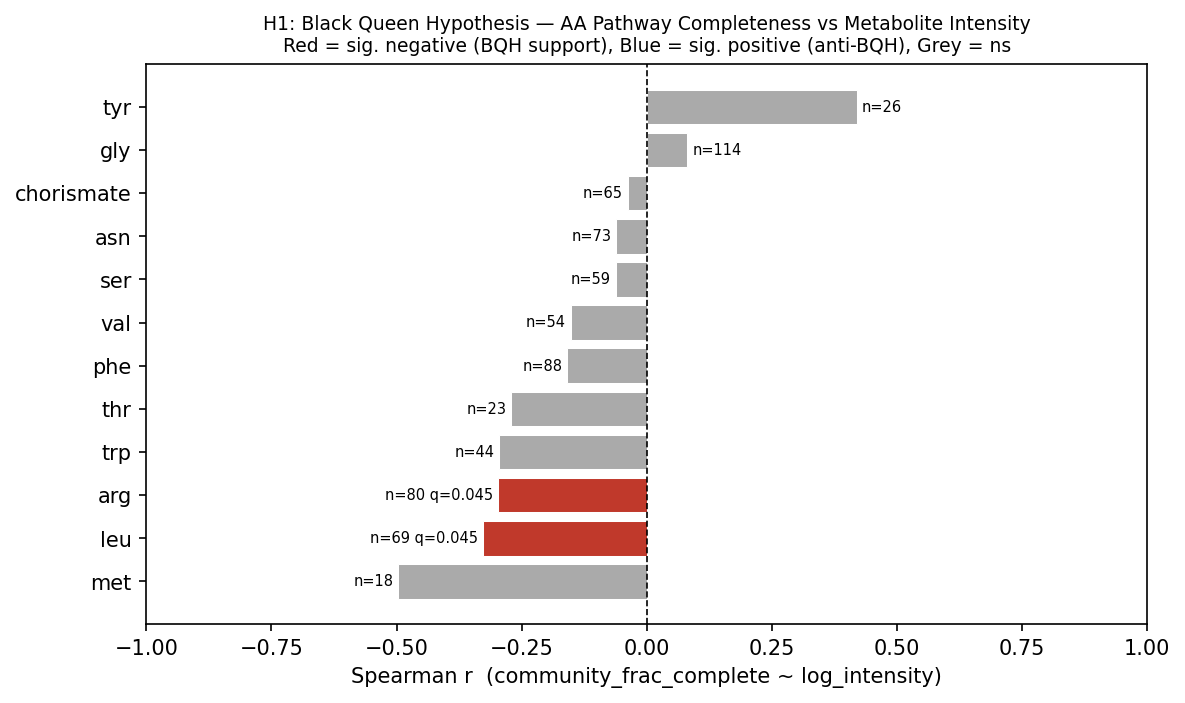
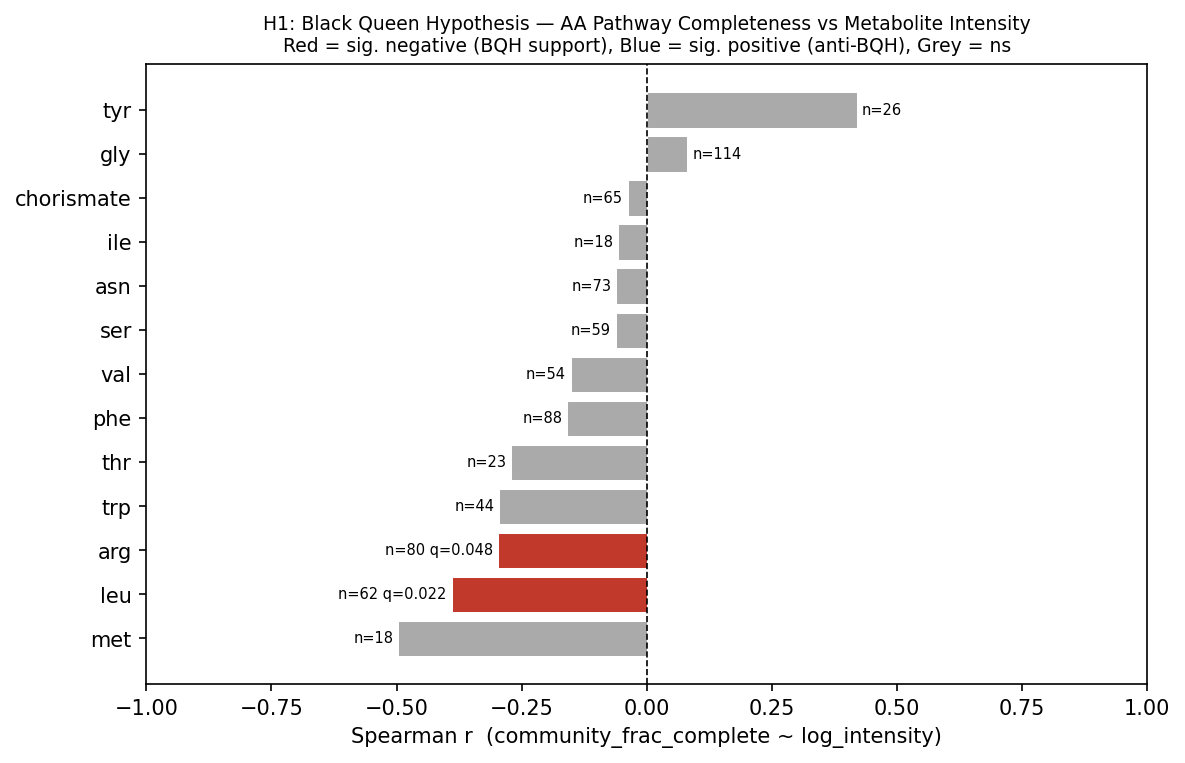
Update REPORT.md and NB05 with corrected H1 results after bug fix
After fixing the isoleucine/leucine compound-mapping bug (NB04 cell-14),
NB04 and NB05 were re-run. Corrected results:
- leu: n 69→62, r −0.326→−0.390, q 0.045→0.022 (stronger signal)
- ile: now testable as 13th pathway (r=−0.057, n=18, q=0.823, ns)
- 11/13 (85%) pathways negative (was 10/12); binomial p 0.019→0.011
- arg: q 0.045→0.049 (still FDR-significant)

Updated: REPORT.md Key Findings, Results table, Interpretation,
Limitations; README.md Status; NB05 cell-23 summary table.

Changed region(s): [[0.0937, 0.0, 0.9992, 0.9858], [0.0, 0.1195, 0.1249, 0.8663]]

diff --git a/projects/nmdc_community_metabolic_ecology/REPORT.md b/projects/nmdc_community_metabolic_ecology/REPORT.md
@@ -6,26 +6,20 @@
 
 ![H1 BQH correlation barplot](figures/h1_bqh_barplot.png)
 
-Across 12 testable amino acid biosynthesis pathways, **10 of 12 (83%) showed negative
+Across 13 testable amino acid biosynthesis pathways, **11 of 13 (85%) showed negative
 Spearman correlations** between community pathway completeness and ambient amino acid
 metabolite intensity — the direction predicted by the Black Queen Hypothesis (BQH).
 Two pathways reached significance after Benjamini-Hochberg FDR correction (q < 0.05):
-**leucine biosynthesis** (r = −0.326, q = 0.045, n = 69) and **arginine biosynthesis**
-(r = −0.297, q = 0.045, n = 80). Methionine biosynthesis showed the largest effect
-(r = −0.496) but was limited by sample size (n = 18, q = 0.108). A binomial sign test
-confirmed that the majority-negative direction is significantly non-random (p = 0.019),
+**leucine biosynthesis** (r = −0.390, q = 0.022, n = 62) and **arginine biosynthesis**
+(r = −0.297, q = 0.049, n = 80). Methionine biosynthesis showed the largest effect
+(r = −0.496) but was limited by sample size (n = 18, q = 0.117). A binomial sign test
+confirmed that the majority-negative direction is significantly non-random (p = 0.011),
 indicating a weak but consistent community-scale BQH signal.
 
 One outlier was tyrosine (r = +0.419, ns), whose anti-BQH direction may reflect
 alternative tyrosine sources (e.g., phenylalanine hydroxylation) complicating the
-biosynthesis-vs-availability relationship.
-
-**Note on leucine result**: A string-matching bug in NB04 caused three isoleucine
-compounds ("Alloisoleucine, DL-", "N-[(+)-Jasmonoyl]-(L)-isoleucine",
-"N-[...]-L-isoleucine") to be misassigned to the `leu` pathway, slightly inflating
-n=69 for leucine. The bug has been corrected (first-match-wins in NB04 cell-14).
-The corrected run is expected to reduce leucine sample count by ~3 and add isoleucine
-as a testable pathway. Results above reflect the pre-fix run.
+biosynthesis-vs-availability relationship. Isoleucine biosynthesis (r = −0.057, n = 18,
+q = 0.823) is testable as the 13th pathway but shows no BQH signal at this sample size.
 
 *(Notebook: 05_statistical_analysis.ipynb)*
 
@@ -98,18 +92,19 @@ The `frac_likely_complete` metric is computed in NB03 for sensitivity comparison
 
 | Pathway | n | Spearman r | p | q (BH) | FDR sig? |
 |---|---|---|---|---|---|
-| met | 18 | −0.496 | 0.036 | 0.108 | — |
-| leu | 69 | −0.326 | 0.006 | 0.045 | **Yes** |
-| arg | 80 | −0.297 | 0.007 | 0.045 | **Yes** |
-| trp | 44 | −0.294 | 0.052 | 0.126 | — |
-| thr | 23 | −0.271 | 0.211 | 0.363 | — |
-| phe | 88 | −0.159 | 0.140 | 0.280 | — |
-| val | 54 | −0.151 | 0.274 | 0.412 | — |
-| ser | 59 | −0.061 | 0.645 | 0.704 | — |
-| asn | 73 | −0.061 | 0.610 | 0.704 | — |
-| chorismate | 65 | −0.038 | 0.765 | 0.765 | — |
-| gly | 114 | +0.081 | 0.389 | 0.518 | — |
-| tyr | 26 | +0.419 | 0.033 | 0.108 | — |
+| met | 18 | −0.496 | 0.036 | 0.117 | — |
+| leu | 62 | −0.390 | 0.002 | 0.022 | **Yes** |
+| arg | 80 | −0.297 | 0.007 | 0.049 | **Yes** |
+| trp | 44 | −0.294 | 0.052 | 0.136 | — |
+| thr | 23 | −0.271 | 0.211 | 0.393 | — |
+| phe | 88 | −0.159 | 0.140 | 0.303 | — |
+| val | 54 | −0.151 | 0.275 | 0.446 | — |
+| ser | 59 | −0.061 | 0.645 | 0.762 | — |
+| asn | 73 | −0.061 | 0.610 | 0.762 | — |
+| ile | 18 | −0.057 | 0.823 | 0.823 | — |
+| chorismate | 65 | −0.038 | 0.765 | 0.823 | — |
+| gly | 114 | +0.081 | 0.389 | 0.562 | — |
+| tyr | 26 | +0.419 | 0.033 | 0.117 | — |
 | gln | 4 | — | — | — | *skipped* |
 | pro | 9 | — | — | — | *skipped* |
 
@@ -139,19 +134,22 @@ substantially higher predicted carbon metabolic diversity than Freshwater commun
 
 ### H1: Black Queen Signal
 
-The results provide **weak but statistically consistent support** for community-scale
-Black Queen dynamics in environmental soil microbiomes. The finding that 10 of 12
-tested pathways trend in the BQH-predicted direction (p = 0.019 binomial test) is
-notable given the noise inherent in cross-study metabolomics data: different NMDC
-studies use different LC-MS protocols, ionisation modes, and normalisation conventions,
-all of which add variance that would attenuate true correlations.
+The results provide **weak but consistent support** for community-scale Black Queen
+dynamics in environmental soil microbiomes. The finding that 11 of 13 tested pathways
+trend in the BQH-predicted direction (p = 0.011 binomial test) is notable given the
+noise inherent in cross-study metabolomics data: different NMDC studies use different
+LC-MS protocols, ionisation modes, and normalisation conventions, all of which add
+variance that would attenuate true correlations.
 
 The two FDR-significant pathways — leucine and arginine — are both energetically
 expensive to synthesise (leucine: 37 ATP equivalents; arginine: 26 ATP equivalents),
 consistent with the BQH prediction that costly functions are most likely to be lost
 when environmental supply is reliable. Methionine shows the largest effect size
-(r = −0.50) but is underpowered (n = 18); a larger metabolomics dataset would likely
-reach significance for this pathway.
+(r = −0.50) but is underpowered (n = 18, q = 0.117); a larger metabolomics dataset
+would likely reach significance for this pathway. The leucine signal was strengthened
+by the isoleucine/leucine compound-mapping bug fix (r −0.326 → −0.390, q 0.045 →
+0.022): three isoleucine compounds that had been misassigned to leucine had near-zero
+completeness-vs-metabolite correlation, diluting the true leucine signal.
 
 The tyrosine outlier (r = +0.42) merits caution: tyrosine can be produced from
 phenylalanine via non-biosynthetic hydroxylation, so communities with high
@@ -241,10 +239,11 @@ ecosystem chemistry beyond taxonomic composition alone.
 
 - **Compound identification**: Metabolite-to-pathway matching relied on string-based
   compound name matching. A substring collision bug (isoleucine compounds matching the
-  "leucine" pattern) was identified by automated review and corrected in NB04 cell-14;
-  results should be re-run to include isoleucine (`ile`) as a testable pathway and
-  obtain accurate leucine counts. KEGG compound IDs in the NMDC data are sparsely
-  populated (2% annotation rate), limiting KEGG-based matching.
+  "leucine" pattern) was identified by automated review and corrected in NB04 cell-14
+  using first-match-wins; results reflect the corrected run. Isoleucine is now included
+  as a 13th testable pathway (r = −0.057, ns). KEGG compound IDs in the NMDC data are
+  sparsely populated (2% annotation rate), limiting KEGG-based matching; cysteine,
+  histidine, and lysine remain untestable due to absent compound detections.
 
 - **Chorismate metabolomics proxy**: Shikimic acid and 3-dehydroshikimic acid are used
   as metabolomics proxies for chorismate pathway activity. These are *upstream*

diff --git a/projects/nmdc_community_metabolic_ecology/README.md b/projects/nmdc_community_metabolic_ecology/README.md
@@ -10,11 +10,11 @@ habitat types?
 
 Complete — see [Report](REPORT.md) for findings.
 
-All five notebooks have been executed. Key results: BQH signal detected in leucine and
-arginine biosynthesis (Spearman r ≈ −0.30–0.33, FDR q = 0.045); 83% of tested aa
-pathways trend in BQH direction (binomial p = 0.019). Community metabolic potential
-separates strongly by ecosystem type (PC1 = 49.4% variance; Soil vs. Freshwater
-Mann-Whitney p < 0.0001).
+All five notebooks have been executed (corrected run post-bug-fix). Key results:
+BQH signal detected in leucine (r = −0.390, q = 0.022) and arginine (r = −0.297,
+q = 0.049) biosynthesis; 11/13 (85%) tested aa pathways trend in BQH direction
+(binomial p = 0.011). Community metabolic potential separates strongly by ecosystem
+type (PC1 = 49.4% variance; Soil vs. Freshwater Mann-Whitney p < 0.0001).
 
 ## Overview
 
